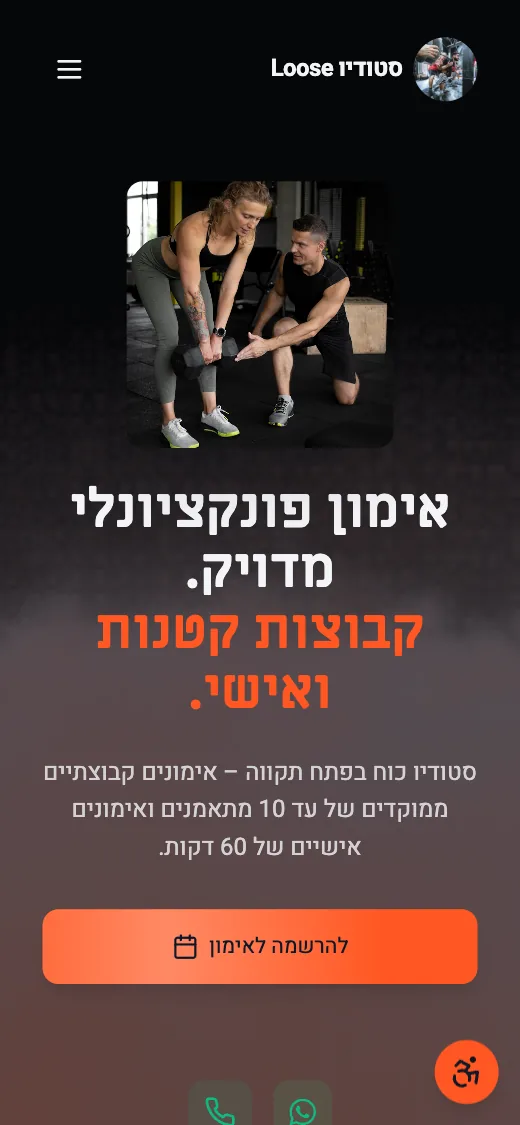
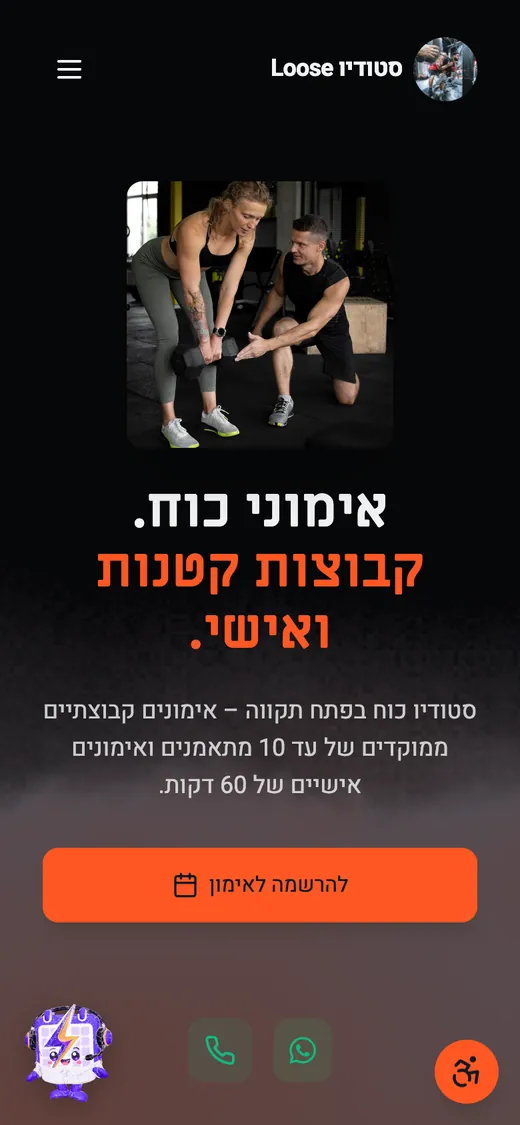
LT-372: fresh showcase screenshots (2026-10-17), versioned past the cache
Studio Loose, Shulchan Aruch and Dyo have new headlines; every site now
shows the site Lighty in its corner (teaser bubble left out).

diff --git a/src/components/Showcase.tsx b/src/components/Showcase.tsx
@@ -7,7 +7,7 @@ import { HaloReel } from './ui/halo-reel';
 
 /**
  * LT-260: real sites built with Lightor, as their owners' customers see them
- * on a phone (screenshots in public/showcase, 2026-10-12 and 2026-10-15). The terms
+ * on a phone (screenshots in public/showcase, retaken 2026-10-17). The terms
  * (section 5) let Lightor show a public site in its marketing; an owner who
  * asks to be left out is removed here by hand — the live list, which follows
  * "hide from search" on its own, is lightor.app/sites.
@@ -15,7 +15,7 @@ import { HaloReel } from './ui/halo-reel';
 const SITES = [
   { sub: 'zoharsweets', name: 'Zohar Sweets', kind: 'leads' },
   // LT-331 demo sites: built by the real wizard, seeded with activity by
-  // lightor-back's seedDemoSites (screenshots 2026-10-15).
+  // lightor-back's seedDemoSites.
   { sub: 'hakise-barbershop', name: 'דקל ברברשופ', kind: 'booking' },
   { sub: 'noga-nails', name: 'נוגה ניילס', kind: 'booking' },
   { sub: 'studio-koach', name: 'סטודיו Loose', kind: 'booking' },
@@ -23,6 +23,9 @@ const SITES = [
   { sub: 'neshima-yoga', name: 'נשימה', kind: 'booking' },
   { sub: 'dyo-tattoo', name: 'דיו', kind: 'booking' },
 ] as const;
+
+/** The screenshots' date: a new set gets a new address, past the 4 h cache (LT-372). */
+const SHOTS = '2026-10-17';
 
 /** True while the viewport is at least `px` wide; follows resizes. */
 const useWide = (px: number): boolean => {
@@ -83,7 +86,7 @@ const Showcase = () => {
       {/* LT-330: the phones ride a turning ring (HaloReel); the site at the
           front is named beside it on wide screens and under it on phones. */}
       <HaloReel
-        items={SITES.map(({ sub, name }) => ({ src: `/showcase/${sub}.webp`, alt: t('showcase.alt', { name }) }))}
+        items={SITES.map(({ sub, name }) => ({ src: `/showcase/${sub}.webp?v=${SHOTS}`, alt: t('showcase.alt', { name }) }))}
         aria-label={t('showcase.title')}
         onActiveChange={setActive}
         cardWidth={150}
